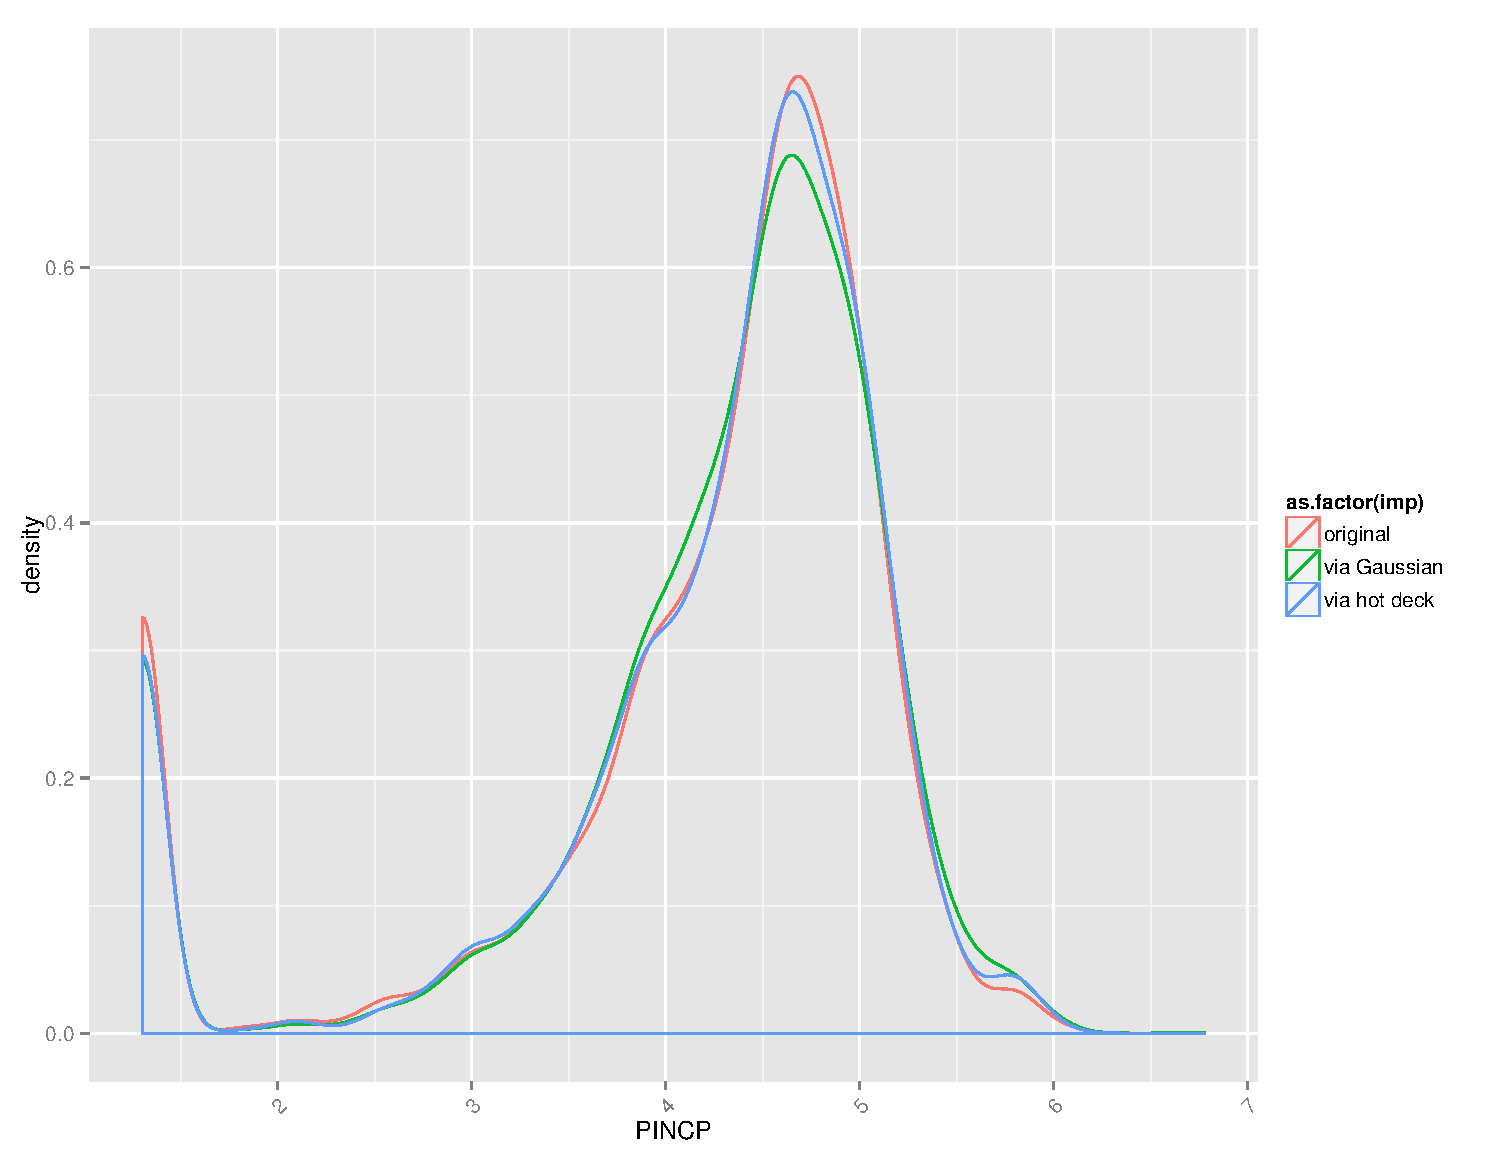
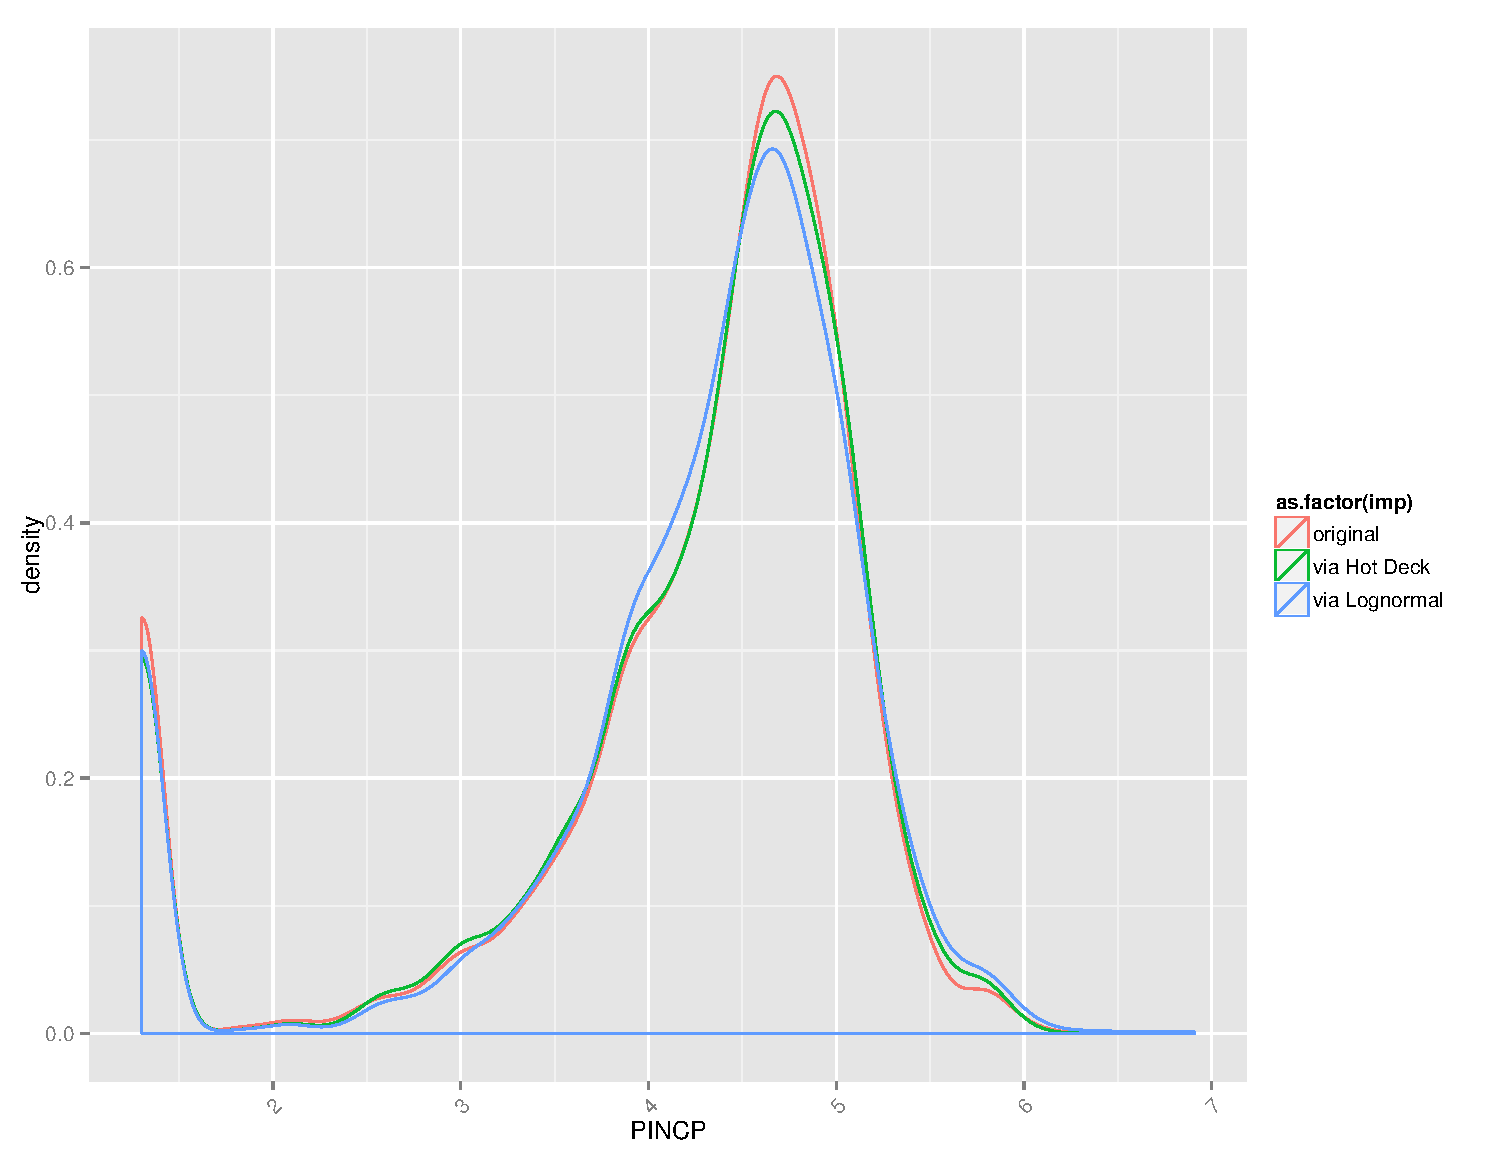
Another update.

diff --git a/index.html b/index.html
@@ -128,17 +128,17 @@ from programming languages like R or SAS, it is a simpler grammar that is easier
 write, and analysts whose areas of expertise are not in programming can
 write technical specifications without the assistance of a programmer or training
 in a new programming language. Second, this follows the programming adage that data and
-procedure should be kept separate. Modifying the list of valid responses to a survey
-question should not require touching any procedural code; modifying the procedure
-by which the survey is processed should not require rewriting the description of the
-survey questions or their validity rules. Third, we hope that spec files will be published
+procedure should be kept separate. Third, we hope that spec files will be published
 along with data sets, so that users can see the assumptions made during processing.</p>
 
 <p>Throughout this tutorial, code snippets that have a file name can be found in the 
-<a href="https://github.com/b-k/tea-tutorial.git">tutorial repository</a>. Being plain text,
-you can open and edit them using any text editor (Notepad, Kate, vi, ...). From that directory,
-you can cut/paste the R sample code onto the R command prompt, or run the program
-using R's the <tt>source</tt> command, e.g., from R:</p>
+<a href="https://github.com/b-k/tea-tutorial.git">tutorial repository</a>.
+In the sidebar on that page, you will find a link to download a zip file of the full set
+of files, or users familiar with git can clone the repository.</p>
+
+<p>Being plain text, you can open and edit the files using any text editor (Notepad,
+Kate, vi, ...). From that directory, you can cut/paste the R sample code onto the R
+command prompt, or run the program using R's the <tt>source</tt> command, e.g., from R:</p>
 
 <div class="rcode"><pre><code>source("hello.R")
 </code></pre></div>
@@ -410,15 +410,16 @@ library(tea)
 readSpec("recode.spec")
 doInput()
 
-tt <- teaTable("viewdc", limit=20, cols=c("id", "PINCP", "log_in", "hh_in", "house_in"))
+tt <- teaTable("viewdc", limit=20, cols=c("id", "PINCP", "log_in",
+                                          "hh_in", "house_in"))
 print(tt)
 
 print(summary(teaTable(teaenv$active_tab, cols=c("log_in", "log_house_in"),
-                                          where="log_in+log_house_in > -100")))
+                                     where="log_in+log_house_in > -100")))
 
 print(dbGetQuery(teaenv$con, "select avg(log_house_in) from \
-                                        (select distinct serialno, log_house_in \
-                                         from viewdc where log_house_in > -100)"))
+                                (select distinct serialno, log_house_in \
+                                from viewdc where log_house_in > -100)"))
 </code></pre></div>
 
 <p><ul>
@@ -578,17 +579,24 @@ The following example imputes missing incomes using two methods.</p>
 
 <p>The sample data used in this tutorial is already-cleaned public use data, so the only
 missing incomes are for people under 15 (who all have missing income, which tells us
-that the ACS probably has an edit akin to <tt>age<=15 => PINCP=NULL</tt>). So the R
-script will first record the original distribution as reported by the Census, then
-blank out the incomes of about 30% of respondents (probably including a good number
-of already-blank under-15s), then try the various imputation methods in the spec file.
-Here is the spec file, with two imputation methods:</p>
+that the ACS probably has an edit akin to <tt>age<=15 => PINCP=NULL</tt>).
+The <tt>pokeHoles</tt> function
+first records the original distribution as reported by the Census (in the <tt>precut</tt>
+table), then
+blanks out the incomes of about 30% of respondents (probably including a good number
+of already-blank under-15s). Because <tt>pokeHoles.R</tt> is not really
+about Tea, we do not print it here, but you can inspect it on the
+<a href="https://github.com/b-k/tea-tutorial/blob/master/pokeHoles.R"><tt>pokeHoles.R</tt>
+page</a> of the repository.</p>
+
+<p>Here is the spec file, with several imputation methods:</p>
 
 <div class="spec"><pre><code># incomes.spec
 
 include: recode.spec
 
 impute {
+    input table: viewdc
     vars: has_income
     categories {
         age_cat
@@ -600,6 +608,7 @@ impute {
 }
 
 common {
+    input table: viewdc
     earlier output table: has_in
     min group size: 5
     subset: agep+0.0>15
@@ -731,17 +740,8 @@ doInput()
 dbGetQuery(teaenv$con, "update viewdc set pincp=pincp+10")
 
 # Dirty up the data by blanking out 30% of incomes
-try(dbGetQuery(teaenv$con, "drop table precut"))
-dbGetQuery(teaenv$con, "create table precut as select * from viewdc")
-table_len <-dbGetQuery(teaenv$con, "select count(*) from viewdc")[[1]]
-rowids <- floor(runif(table_len*.30)*table_len)
-
-lapply(rowids, function(row){
-       dbGetQuery(teaenv$con, paste("update viewdc set pincp=NULL where rowid=", row))
-})
-
-# A hack; automatic editing like this is introduced below.
-dbGetQuery(teaenv$con, "update viewdc set PINCP=null where PINCP<0")
+source("pokeHoles.R")
+pokeHoles("viewdc", "pincp", .3)
 
 doMImpute()
 
@@ -749,7 +749,7 @@ doMImpute()
 # in a format amenable to the plotting routine
 getOne <-function(method, fillins){
     filledtab <- paste(fillins, "fill", sep="")
-    checkOutImpute(teaenv$active_tab, filledtab, filltab=fillins,
+    checkOutImpute(origin="viewdc", dest=filledtab, filltab=fillins,
                        subset="agep+0>15")
     outframe <-teaTable(filledtab, cols="PINCP")
     outframe$PINCP <- log10(outframe$PINCP+10)
@@ -941,7 +941,7 @@ readSpec("joined.spec")
 doTable("dc_united")
 
 source("pokeHoles.R")
-pokeHoles("dc_united", "pincp")
+pokeHoles("dc_united", "pincp", .3)
 
 doMImpute()
 
